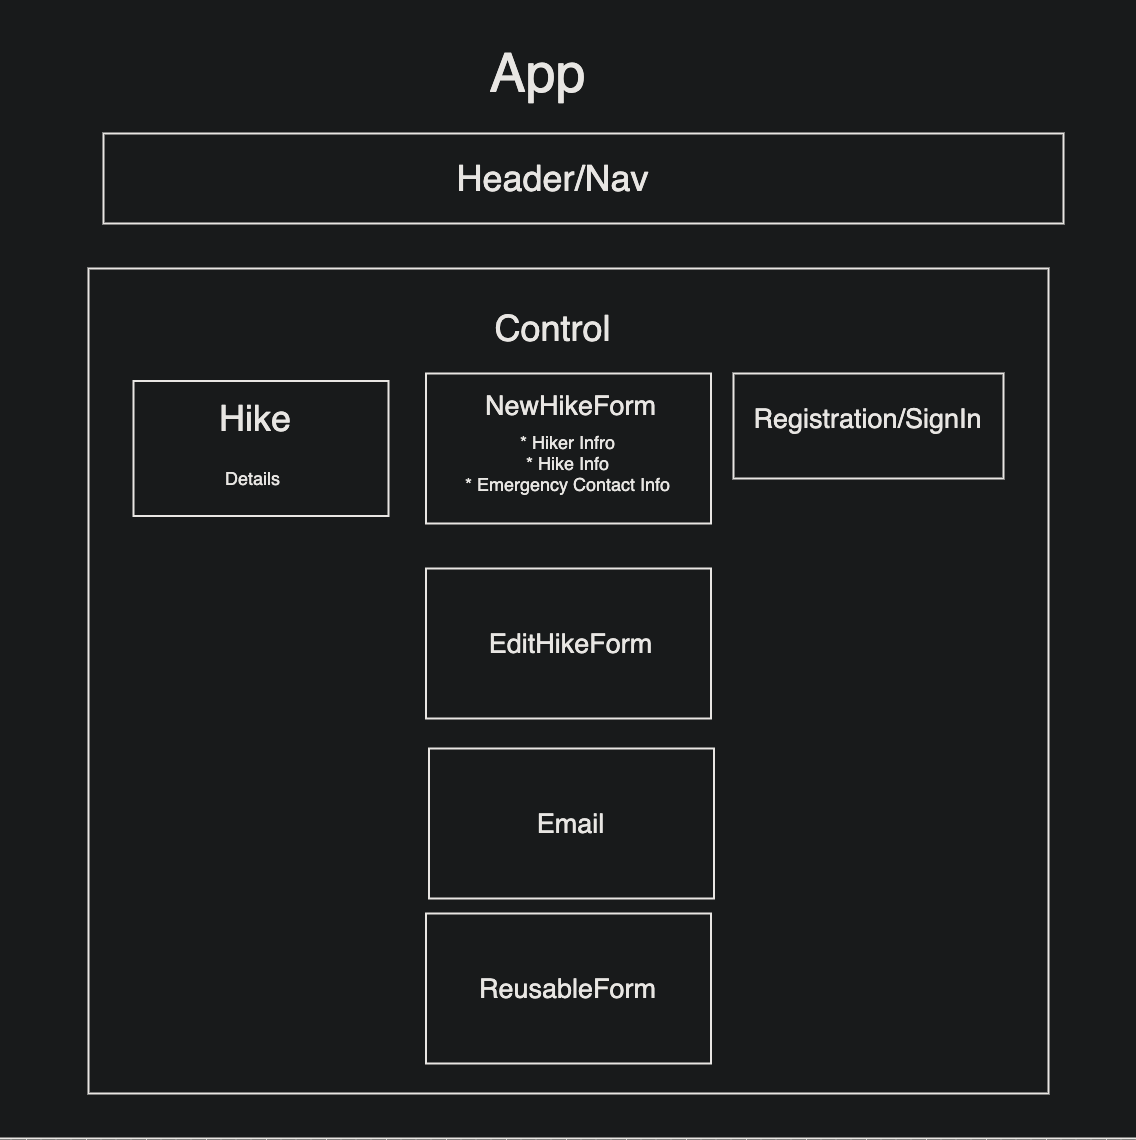
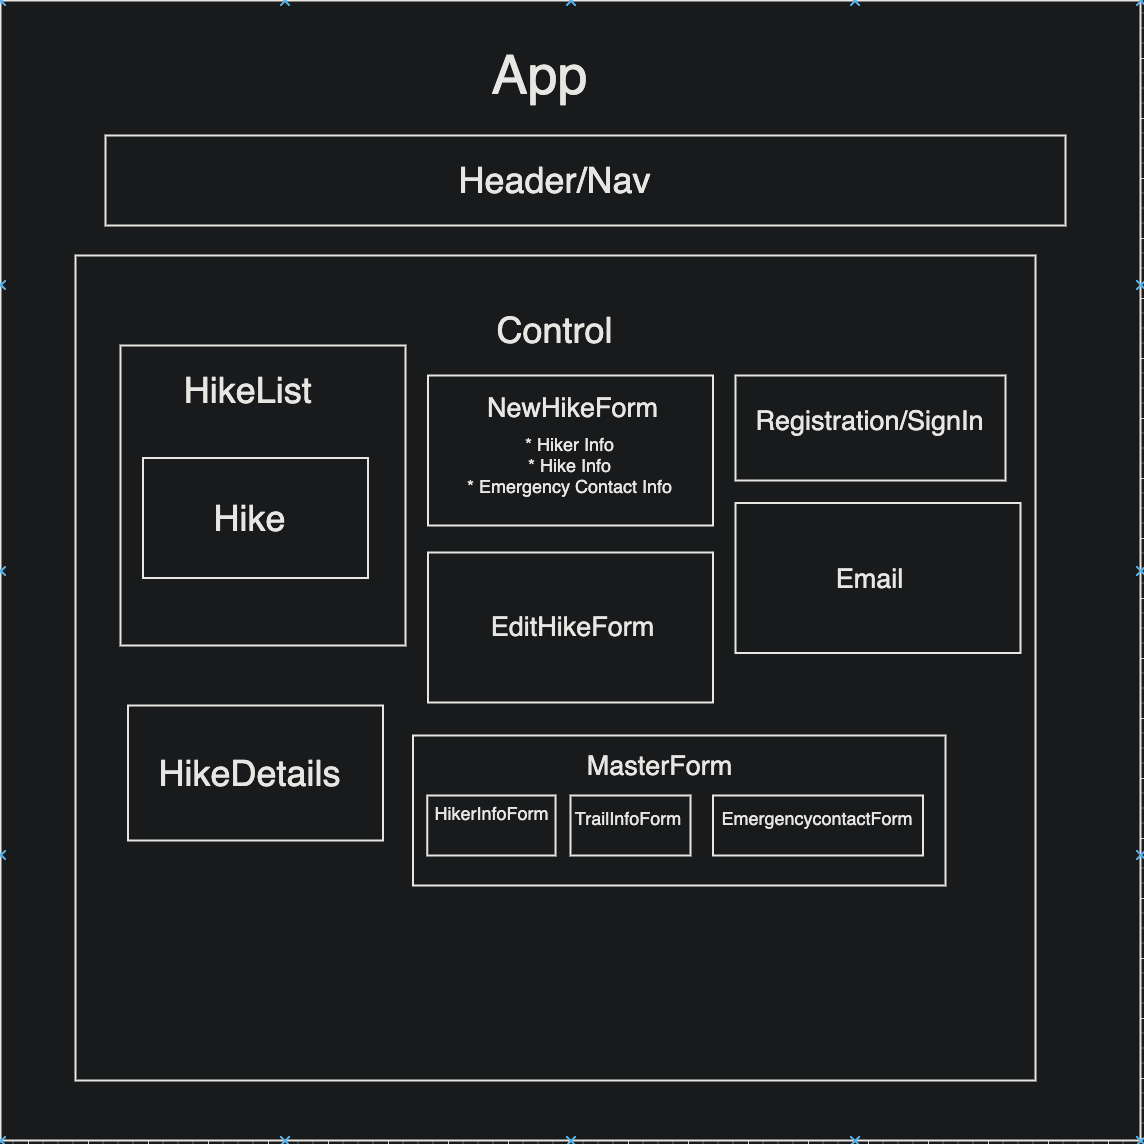
update component diagram, add urls for research

diff --git a/Work.md b/Work.md
@@ -68,5 +68,5 @@ Notes:
 9pm - Multi-step form working. But is not adding to list. Debug form submission
 Notes:
 
-- Error: Form submission canceled because the form is not connected
+- Error: Form submission canceled because the form is not connected. Google says to change all button types to be button
 - Error: Warning: Each child in a list should have a unique "key" prop.
